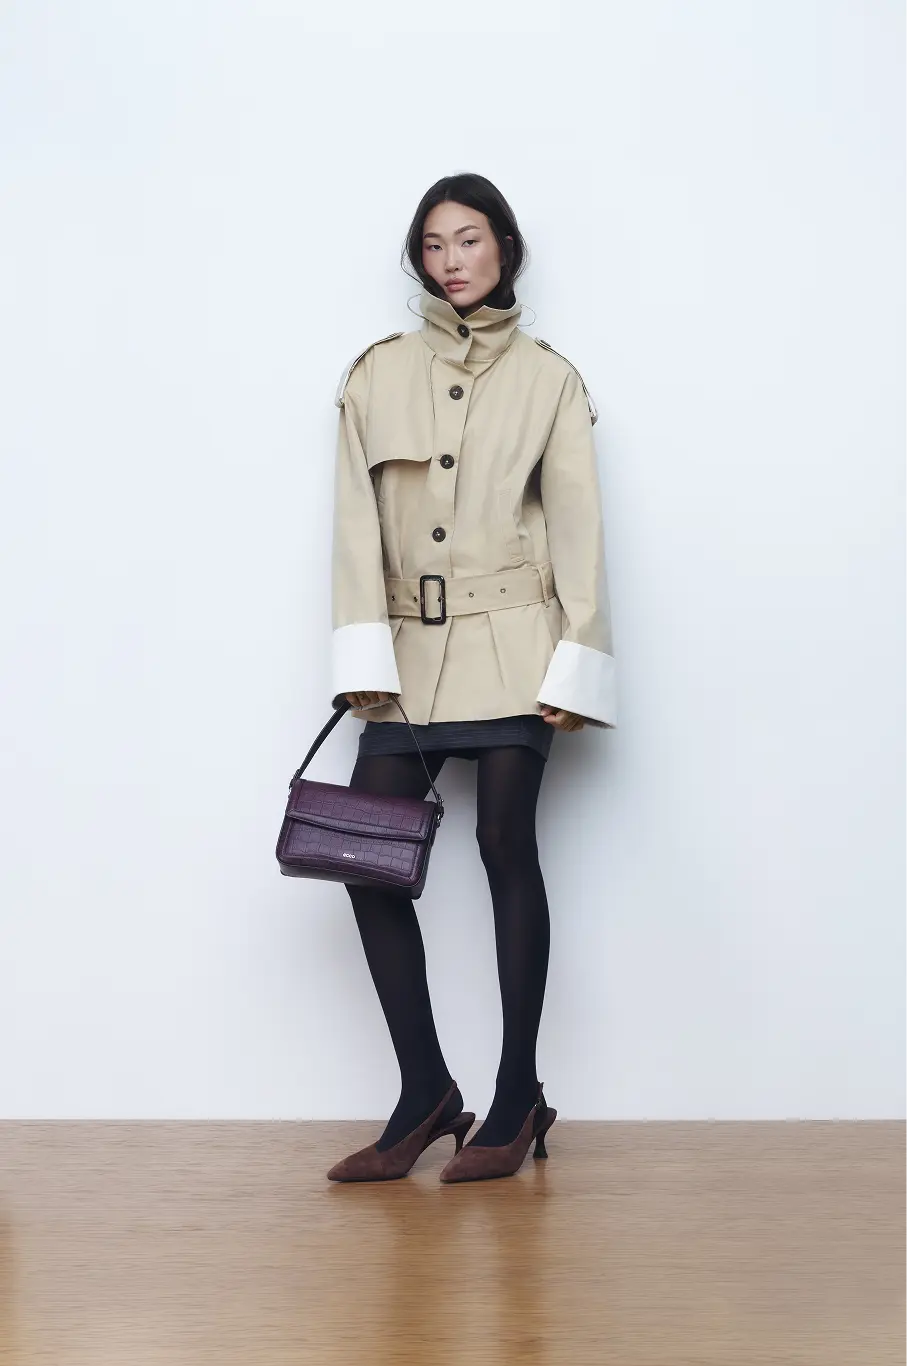
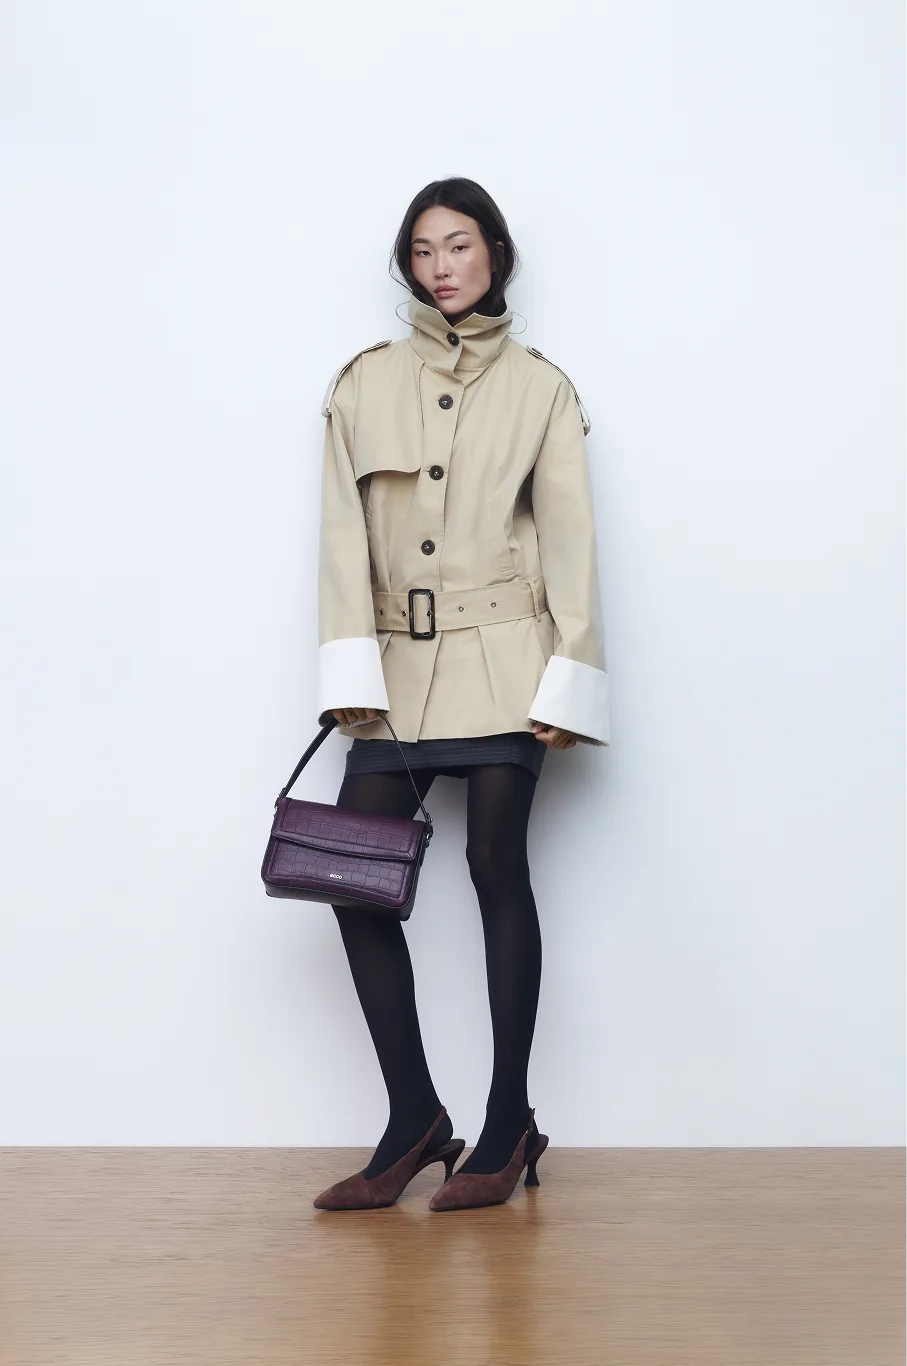
fix pictures for safari

Changed region(s): [[0.0, 0.123, 1.0, 0.9224], [0.0, 0.8917, 0.0309, 1.0]]

diff --git a/assets/css/style.css b/assets/css/style.css
@@ -250,22 +250,41 @@ body .page-sections h1.intro__title{
 }
 .limit__left img{
     display: block;
+    position: absolute;
+    inset: 0;
     width: 100%;
-    max-width: 100%;
-    max-height: 100%;
     height: 100%;
     object-fit: cover;
+}
+.limit__left{
+    aspect-ratio: 453 / 683;
+}
+.limit__left-pic{
+    aspect-ratio: 453 / 683;
+    position: relative;
+}
+.limit__right{
+    position: relative;
+    aspect-ratio: 453 / 683;
 }
 .limit__right img, .limit__right picture{
     display: block;
+    position: absolute;
+    inset: 0;
     width: 100%;
     height: 100%;
     object-fit: cover;
 }
+.limit__desktop{
+    position: relative;
+    aspect-ratio: 453 / 683;
+}
 .limit__desktop img{
     display: block;
-    max-width: 100%;
-    max-height: 100%;
+    position: absolute;
+    inset: 0;
+    width: 100%;
+    height: 100%;
     object-fit: cover;
 }
 
@@ -298,6 +317,7 @@ body .page-sections h1.intro__title{
 .com__area{
     position: relative;
     display: block;
+    aspect-ratio: 339 / 512;
 }
 .com__area picture, .com__area img{
     display: block;
@@ -437,12 +457,15 @@ body .page-sections h1.intro__title{
 }
 .bal__col:nth-child(1){
     width: 32.61%;
+    position: relative;
+    aspect-ratio: 450 / 682;
 }
 .bal__col:nth-child(1) img, .bal__col:nth-child(1) picture, .bal__col:nth-child(2) img, .bal__col:nth-child(2) picture{
     display: block;
+    position: absolute;
+    inset: 0;
     width: 100%;
     height: 100%;
-    max-height: 100%;
     object-fit: cover;
 }
 .bal__col-img{
@@ -457,6 +480,11 @@ body .page-sections h1.intro__title{
     display: grid;
     grid-template-columns: repeat(2, 1fr);
     gap: 10px;
+    position: relative;
+}
+.bal__col-item{
+    position: relative;
+    aspect-ratio: 450 / 682;
 }
 .bal__col:nth-child(3){
     margin-top: 60px;
@@ -650,7 +678,7 @@ body .page-sections h1.intro__title{
 }
 .sls__render{
     grid-column: span 2;
-    position: absolute;
+    position: relative;
 }
 .sls__render picture, .sls__render img{
     display: block;
@@ -678,7 +706,7 @@ body .page-sections h1.intro__title{
 }
 .sls__slider .sls__big-slide{
     width: 100%;
-    height: 100%;
+    height: 517px;
     display: flex;
     flex-wrap: wrap;
     align-items: center;
@@ -744,8 +772,7 @@ button.sls__slider-next:hover, button.sls__slider-prev:hover {
 .sls__slider picture,
 .sls__slider img {
     display: block;
-    max-width: 100%;
-    max-height: 100%;
+    max-width: 453px;
     object-fit: contain;
 }
 .sls__txt-wrap{
@@ -1090,6 +1117,15 @@ button.sls__slider-next:hover, button.sls__slider-prev:hover {
     .det{
         padding-top: 100px;
         padding-bottom: 100px;
+    }
+    .sls__slider .sls__big-slide{
+        height: 435px;
+    }
+    .sls__slide-title{
+        margin-bottom: 0;
+    }
+    .sls__slide-note{
+        font-size: 9px;
     }
 }
 .video .video-toggle {
